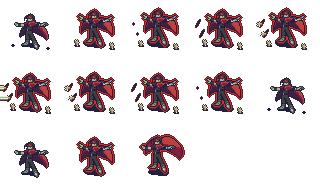
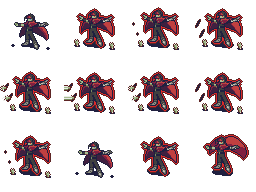
feat(Assets): More animations, re-added BlueValar

diff --git a/Drakhtar/Structures/Game.cpp b/Drakhtar/Structures/Game.cpp
@@ -48,7 +48,6 @@ void Game::load() {
   loaded_ = true;
   auto textures = TextureManager::getInstance();
 
-  // TODO(Kreksu): Add BlueValar back.
   // Units
   textures->add("Units-BlueArcher", "../images/Units/BlueArcher.png", 5, 3)
       ->addAnimation("default", {0, 1})
@@ -71,11 +70,11 @@ void Game::load() {
       ->setFlip(SDL_FLIP_HORIZONTAL);
   textures->add("Units-Thassa", "../images/Units/Thassa.png", 4, 3)
       ->addAnimation("default", {0, 1})
-      ->addAnimation("attack", {2, 3, 4, 5, 6, 7, 8, 9, 10, 11})
+      ->addAnimation("attack", {2, 3, 4, 5, 6, 7, 8, 9, 10})
       ->setFlip(SDL_FLIP_HORIZONTAL);
-  textures->add("Units-Abeizhul", "../images/Units/Abeizhul.png", 5, 2)
+  textures->add("Units-Abeizhul", "../images/Units/Abeizhul.png", 4, 3)
       ->addAnimation("default", {0, 1})
-      ->addAnimation("attack", {2, 3, 4, 5, 6, 7, 8, 9, 10, 11, 12});
+      ->addAnimation("attack", {2, 3, 4, 5, 6, 7, 8, 9, 10, 11});
   textures->add("Units-Dreilay", "../images/Units/Dreilay.png", 5, 3)
       ->addAnimation("default", {0, 1})
       ->addAnimation("attack", {2, 3, 4, 5, 6, 7, 8, 9, 10, 11, 12});
@@ -100,12 +99,15 @@ void Game::load() {
   textures->add("Units-Sheissa", "../images/Units/Sheissa.png", 4, 3)
       ->addAnimation("default", {0, 1})
       ->addAnimation("attack", {2, 3, 4, 5, 6, 7, 8, 9, 10});
-  textures->add("Units-Valar", "../images/Units/RedValar.png", 5, 3)
+  textures->add("Units-BlueValar", "../images/Units/BlueValar.png", 5, 3)
       ->addAnimation("default", {0, 1})
       ->addAnimation("attack", {2, 3, 4, 5, 6, 7, 8, 9, 10, 11, 12});
-  textures->add("Units-Zamdran", "../images/Units/Zamdran.png", 2, 1)
+  textures->add("Units-RedValar", "../images/Units/RedValar.png", 5, 3)
       ->addAnimation("default", {0, 1})
-      ->addAnimation("attack", {0, 1});
+      ->addAnimation("attack", {2, 3, 4, 5, 6, 7, 8, 9, 10, 11, 12});
+  textures->add("Units-Zamdran", "../images/Units/Zamdran.png", 4, 4)
+      ->addAnimation("default", {0, 1})
+      ->addAnimation("attack", {2, 3, 4, 5, 6, 7, 8, 9, 10, 11, 12, 13, 14});
 
   // UI
   textures->add("UI-cellFrame", "../images/UI/cellFrame.png", 1, 1);
